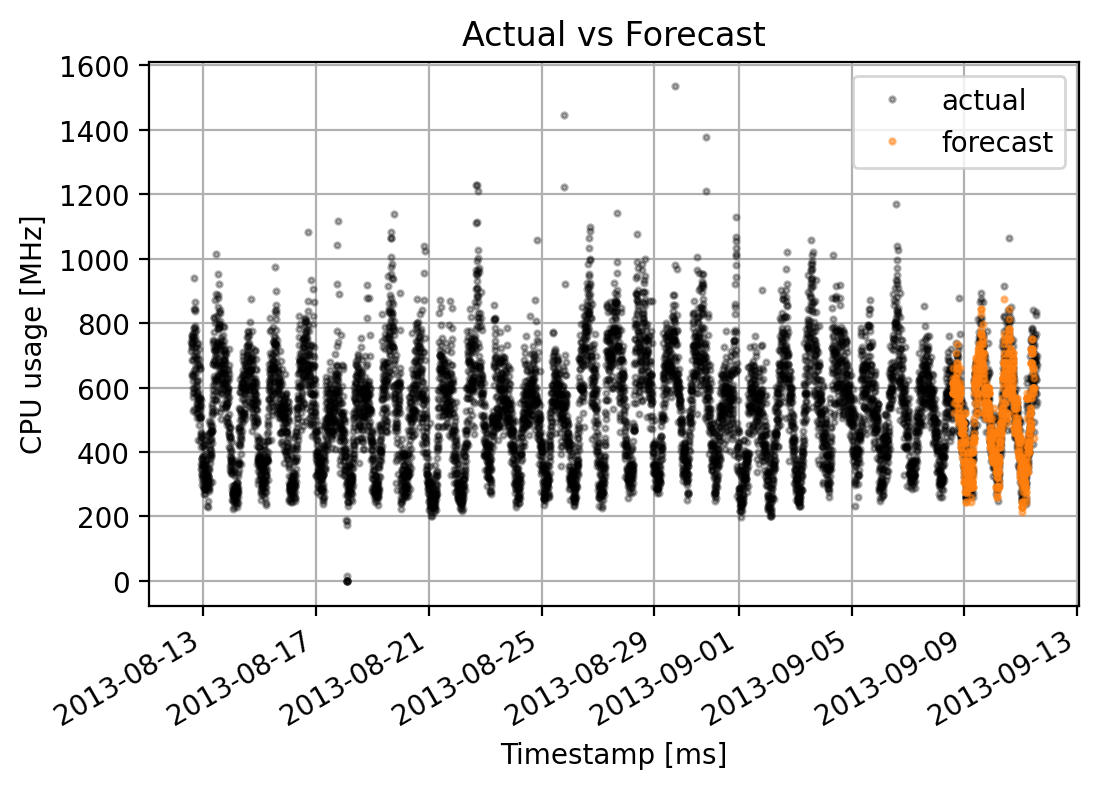
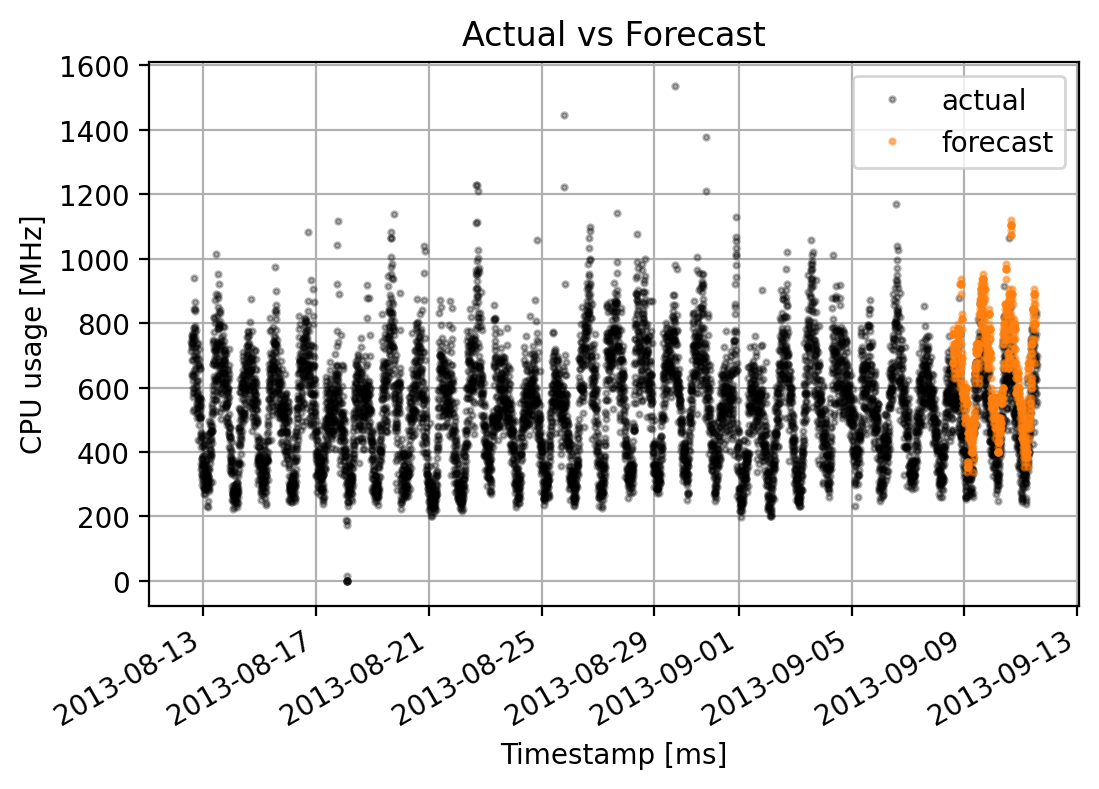
Change ConvLSTM loss to MSE

Changed region(s): [[0.8662, 0.3346, 0.9591, 0.6692], [0.8972, 0.2738, 0.9281, 0.3042]]

diff --git a/Modeling/ConvLSTM.py b/Modeling/ConvLSTM.py
@@ -273,7 +273,7 @@ class ConvLSTMModel:
         # Next, we will build the complete model and compile it.
         model = tf.keras.models.Model(inp, x)
         model.compile(
-            loss=tf.keras.losses.KLDivergence(), optimizer=tf.keras.optimizers.Adam(),
+            loss=tf.keras.losses.MeanAbsoluteError(), optimizer=tf.keras.optimizers.Adam(),
         )
         return model
 
@@ -362,18 +362,34 @@ class ConvLSTMModel:
         # Ground truth
         gt = self.test[1]
 
-        # Figure of raw output
+        # Test_pred dataset
+        test_input = self.test_pred[0]
+        test_label = self.test_pred[1]
         # Construct a figure for the original and new frames.
-        fig, axes = plt.subplots(2, 10, figsize=(20, 4))
+        fig, axes = plt.subplots(4, 5, figsize=(20, 20))
         # Plot the original frames.
+        axes[0][2].set_title('Input')
         for idx, ax in enumerate(axes[0]):
-            ax.imshow(np.squeeze(gt[idx]), cmap="gray")
-            ax.set_title(f"Sample {idx}")
+            ax.imshow(np.squeeze(test_input[idx]), cmap="gray")
+            # ax.set_title(f"Sample {idx}")
             ax.axis("off")
         # Plot the new frames.
+        axes[1][2].set_title('Labels')
         for idx, ax in enumerate(axes[1]):
+            ax.imshow(np.squeeze(test_label[idx]), cmap="gray")
+            # ax.set_title(f"Sample {idx}")
+            ax.axis("off")
+        axes[2][2].set_title('Output')
+        # Prediction
+        for idx, ax in enumerate(axes[2]):
             ax.imshow(np.squeeze(pred[idx]), cmap="gray")
-            ax.set_title(f"Sample {idx}")
+            # ax.set_title(f"Sample {idx}")
+            ax.axis("off")
+        # Prediction binarize
+        axes[3][2].set_title('Output binarized')
+        for idx, ax in enumerate(axes[3]):
+            ax.imshow(np.squeeze(self.binarize_image(pred[idx])), cmap="gray")
+            # ax.set_title(f"Sample {idx}")
             ax.axis("off")
         # Save the figure
         if not os.access(os.path.join(FIGURES_PATH, self.name), os.F_OK):
@@ -388,7 +404,7 @@ class ConvLSTMModel:
         # Binarize the image
         img_pred_bin = self.binarize_image(img_pred)
         fig, axes = plt.subplots(2, 1, figsize=(15, 6))
-        plt.suptitle('Test set: GT vs prediction', fontsize=16)
+        plt.suptitle('Test set: ground truth vs prediction', fontsize=16)
         # Ground Truth
         axes[0].imshow(img_gt, cmap="gray")
         axes[0].set_title('Ground truth')
